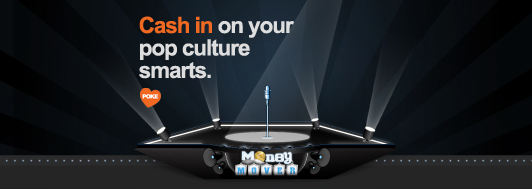
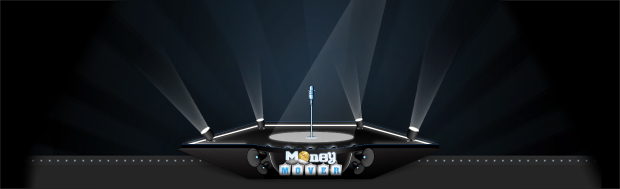
mainImage now repeats infinitely on ultra-wide screens

diff --git a/amex/serve/index.html b/amex/serve/index.html
@@ -22,16 +22,25 @@
 	<style>
 	
 		#mainImageServeSK {
-			background: #000000 url(images/mainImage.jpg) top center;
 			background-repeat: no-repeat;
 			width: 100%;
-			height: 640px;
+			display: none;
 		}
 		
 		#mainImageExtension {
 			background: #000000 url(images/extension.jpg) top center;
 			background-repeat: repeat;
+			position: relative;
 			width: 100%;
+			height: 640px;
+		}
+
+		#mainImageStage {
+			position: absolute;
+			left: 50%;
+			margin-left: -900px;
+			background: url(images/mainImage.png) no-repeat;
+			width: 1800px;
 			height: 640px;
 		}
 
@@ -68,11 +77,20 @@
 			#mainImageServeSK {
 				background: #000000 url(images/mainImage2.jpg) top center;
 				height: 452px;
+				display: block;
+			}
+		
+			#mainImageExtension {
+				display: none;
+			}
+		
+			#mainImageStage {
+				display: none;
 			}
 
 			#containerServe {
 				position: relative;
-				top: -5px;
+				margin-top: -235px;
 			}
 
 			#headerServe {
@@ -97,22 +115,32 @@
 			#mainImageServeSK {
 				background: #000000 url(images/mainImage4.jpg) top center;
 				height: 189px;
+				display: block;
+			}
+		
+			#mainImageExtension {
+				display: none;
+			}
+		
+			#mainImageStage {
+				display: none;
 			}
 
 			#containerServe {
 				position: relative;
-				top: -20px;
+				margin-top: -110px;
 			}
 
 			#headerServe {
-				font-size: 25pt;
-				top: -135px;
-				left: 10px;
+				font-size: 15pt;
+				top: -172px;
+				left: 23px;
+				letter-spacing: 0px;
 			}
 			
 			.heartSK {
-				width: 37px;
-				height: 35px;
+				width: 23px;
+				height: 20px;
 				margin-top: 4px;
 			}
 
@@ -126,16 +154,25 @@
 			#mainImageServeSK {
 				background: #000000 url(images/mainImage3.jpg) top center;
 				height: 284px;
+				display: block;
+			}
+		
+			#mainImageExtension {
+				display: none;
+			}
+		
+			#mainImageStage {
+				display: none;
 			}
 
 			#containerServe {
 				position: relative;
-				top: 0px;
+				margin-top: -145px;
 			}
 			
-			#headerCW {
-				font-size: 30pt;
-				top: -300px;
+			#headerServe {
+				font-size: 26pt;
+				top: -250px;
 				left: 10px;
 				letter-spacing: -1px;
 			}
@@ -234,11 +271,19 @@
 <body onload="setTimeout(function() { window.scrollTo(0, 1) }, 100);">
 
 	<header>
+	
 		<div id="mainImageServeSK"></div>
+	
+		<div id="mainImageExtension">
+			<div id="mainImageStage"></div>
+		</div>
+	
 	</header>
 
   <div id="container" class="container">
 
+
+		
 		<div id="headerServe">
 				<a href="#">Cash in</a> on your<br />
 				pop culture<br />
